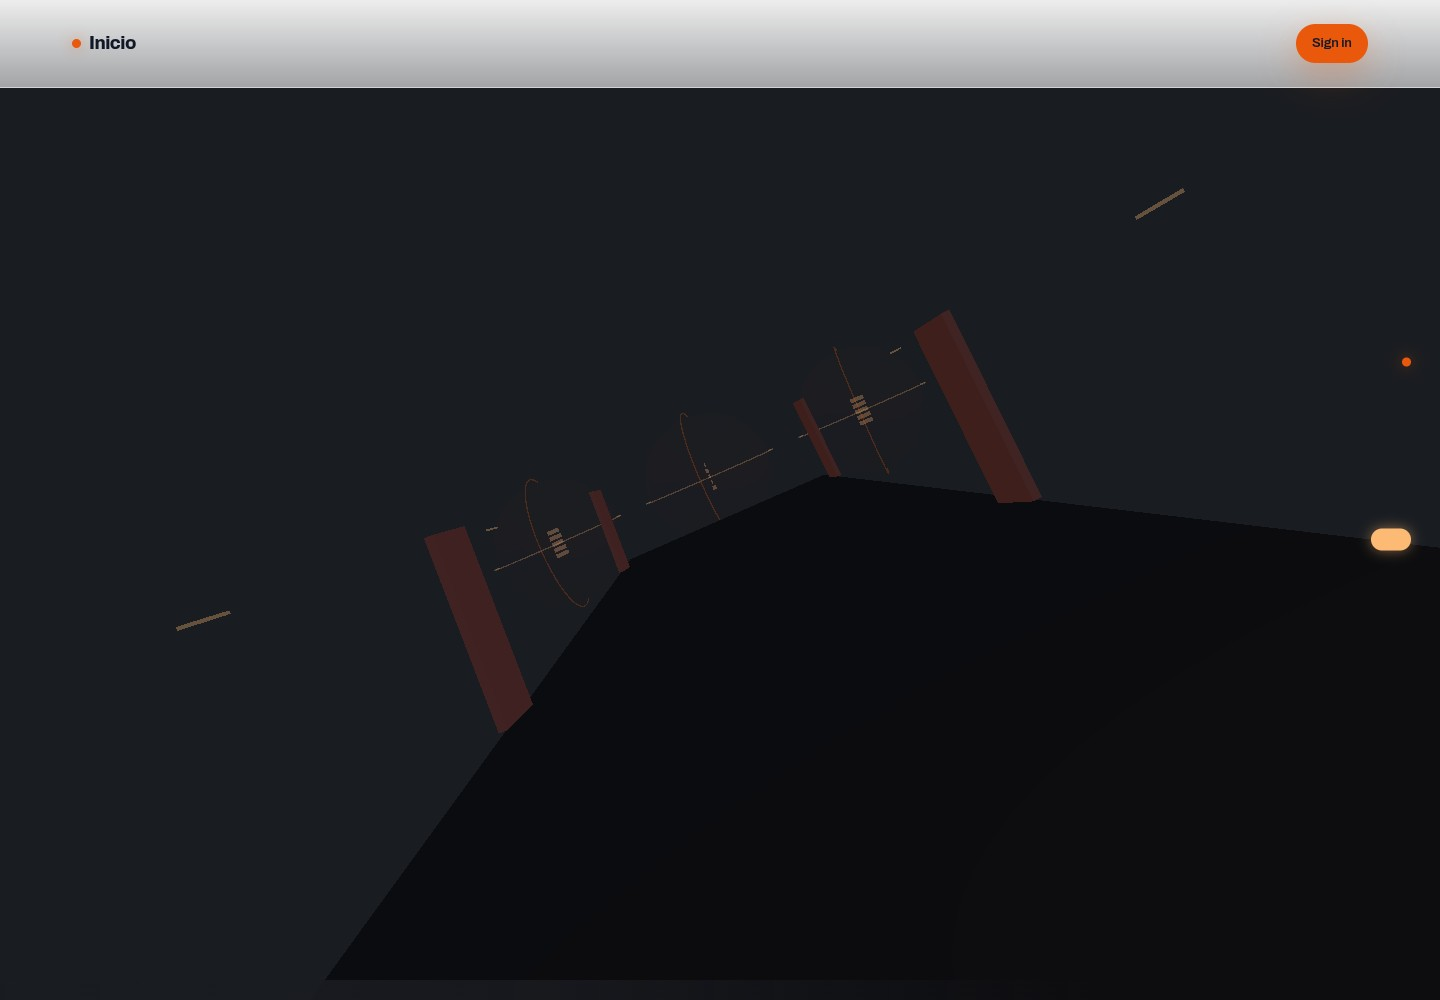
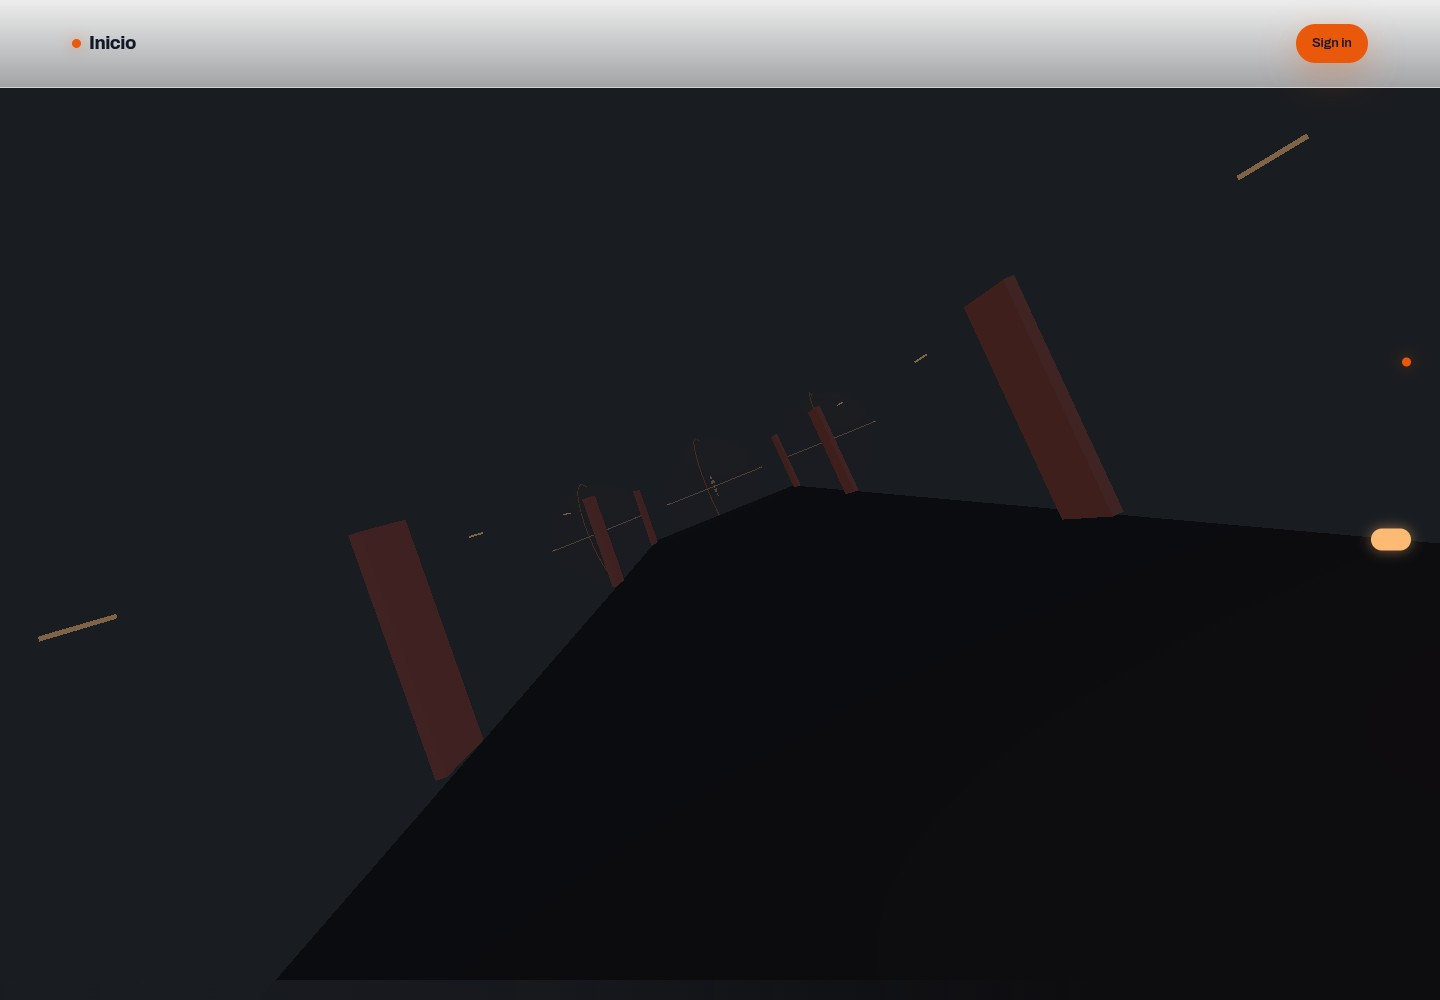
Say that the captures are now of the deployment, and that its counter is not yet durable
The four commits before this one reached https://inicio.unifies.codes within half a minute of
the push, so the capture run was repeated against production rather than against a local
server: the same nine checks passed in the same order (the figures read from the API in that
request, the WebGL scene drawing and reporting six beats, the camera at the beat each
photograph is named for, the fly-through panel holding zero characters, the call to action
reaching /login on both viewports, nothing 4xx'd but the signed-out `401`), and the palette
of each image was decoded afterwards as before. The README now says the images are
photographs of the live site, which is what they are.

Verifying also turned up the one thing that is not finished, and leaving it in a footnote
would have been the kind of quiet that reads as done: `pnpm drift` reports the deployment at
10 migrations while this checkout is at 11. The build that reads `0011` is live — `/health`
answers its version and twelve rapid public reads answer `200` with `x-ratelimit-remaining`
unmoved — and the table is not there, so the durable counter fails **open** on the
deployment, exactly as designed for an unreachable store, and the ceiling is still the
per-process one this release replaced. That is the README's own "migrate first" rule run the
wrong way round, so it is written down in the CHANGELOG, on the roadmap row and at the end
of D47, each naming the command that closes it and the check that confirms it.

diff --git a/docs/ROADMAP.md b/docs/ROADMAP.md
@@ -58,7 +58,7 @@ Legend: **built+verified** · **built, partially verified** · **not built**
 | The API contract | built+verified | `specs/openapi.yaml` enumerates every mounted path — `/health`, the Phase-1 `/auth` block marked `deprecated`, and the whole `/api/v1` surface — with the credentials, the scope table and the stable error vocabulary. It replaced a revision that documented a questionnaire/`admin` surface no longer mounted anywhere. It is now **held to the code rather than to a memory of the code**: `apps/api/test/openapi.test.ts` parses the file, extracts the routes out of the source with the prefixes `app.ts`/`platform/index.ts` actually mount, and compares them both ways — a route added without its entry fails, and so does an entry kept after its route is gone (it caught two: the invitation routes were documented at `/api/v1/invite/...` when they are mounted at `/api/v1/auth/invite/...`). The same test pins the machine surface to the eleven operations a key may call, requires the scope each needs to be *named in its description*, asserts the unauthenticated surface as an explicit list rather than a count, and checks that no scope-shaped token appears that `API_SCOPES` does not define |
 | Bundle budgets | built+verified | `scripts/check-budgets.mjs` (`pnpm budgets`) measures the gzipped build: 80 kB of JavaScript and 7 kB of CSS on the critical path, 8 kB and 6 kB for the landing chunk, 150 kB for any chunk, and it *asserts the split* rather than trusting it — a critical chunk containing `WebGLRenderer` or `createInstrument` fails the build, which is what a static import of the scene would do. This build: 78.7 kB JS and 5.1 kB CSS critical, 6.6 kB landing (3.6 kB of it stylesheet), 7.3 kB studio, 122.2 kB renderer, 1.4 kB cursor trail |
 | Contrast and accessibility rules | built+verified | `contrast.test.ts` measures 23 pairs taken from the stylesheets themselves (aliases followed across the file, translucent colours composited over the ground they sit on): text at 4.5:1, control boundaries and the live dot at 3:1, in both themes and the landing palette. `a11y.test.tsx` mounts the landing page and the terms gate in jsdom and runs `axe-core`, with `color-contrast` disabled for a stated reason and covered by the measurement instead. Two real defects came out of it: interactive boundaries at ~1.6:1 (`--line` at 13 %, now `--line-control` at 50 %) and the light theme's live colour under 4.5:1. **Not verified:** a full WCAG 2.2 AA audit; this is a rule engine and a palette measurement, not a person with a screen reader |
-| Durable rate limiting, across instances and restarts | built+verified | `apps/api/src/lib/rate-limit.ts` with migration `0011`: the counter is a row, so a ceiling is not reset by a recycled serverless process or by a second instance. `rate-limit.test.ts` builds **two** app instances over one database and shows the second refusing what the first had already filled — with the freshly built instance having counted nothing itself, which is exactly what the store this replaced could not do — plus ten concurrent increments landing as ten, an expired window taken over in place rather than accumulating a row per window, a salted hash on disk and never the address or the token, the sweep deleting expired windows and leaving live ones, the public collection routes keyed per **link** while nothing outside that plugin touches the namespace, and a store that cannot reach PostgreSQL failing **open** with one line in the log (the plugin swallows a store error silently, so the store is the only visibility there is). **Not measured:** two instances in *separate* processes under load; durability is proven across two Fastify instances over one database, which is the property in question |
+| Durable rate limiting, across instances and restarts | built+verified | `apps/api/src/lib/rate-limit.ts` with migration `0011`: the counter is a row, so a ceiling is not reset by a recycled serverless process or by a second instance. `rate-limit.test.ts` builds **two** app instances over one database and shows the second refusing what the first had already filled — with the freshly built instance having counted nothing itself, which is exactly what the store this replaced could not do — plus ten concurrent increments landing as ten, an expired window taken over in place rather than accumulating a row per window, a salted hash on disk and never the address or the token, the sweep deleting expired windows and leaving live ones, the public collection routes keyed per **link** while nothing outside that plugin touches the namespace, and a store that cannot reach PostgreSQL failing **open** with one line in the log (the plugin swallows a store error silently, so the store is the only visibility there is). **Not measured:** two instances in *separate* processes under load; durability is proven across two Fastify instances over one database, which is the property in question. **Not yet true on the deployment:** this build is live and `0011` is not applied there, so the counter fails open (the designed behaviour) and the ceiling is still per process; `pnpm drift` says so, and `pnpm db:migrate` over the deployment's owner connection closes it |
 | Installable PWA | built+verified | `apps/web/public/{sw.js,manifest.webmanifest,icon-*.png}`; the worker precaches the shell and its hashed assets and **never** intercepts `/api`, `/auth` or `/health`, so no cached body can be served as live data; `service-worker.test.ts` executes the worker in a VM and asserts both; registration is production-only so it cannot shadow hot module replacement |
 
 ## 2. Not built (and deliberately not faked)

diff --git a/README.md b/README.md
@@ -390,7 +390,7 @@ standing, rather than showing the definition they used to have.
 
 ## 📸 Screenshots
 
-<div align="center"><sub><b>Captured, not drawn.</b> The images in this first table are photographs of the running product — headless Chromium at 1440×1000 (desktop) and 390×844 (phone), driven against a server built from this checkout, with nothing staged: the figures on the page are the ones <code>GET /api/v1/public/summary</code> returned in that request, and the scene is the real WebGL flight, drawn by software GL on a machine with no GPU. Each capture records the address it was taken from in <code>docs/assets/screenshots/capture-report.json</code>, so which build a picture came from is a fact in the repository rather than a claim about it. The further screens are vector renderings of the same interface, committed as SVG so they stay sharp at any zoom and cost a few kilobytes; they exist because the documentation pipeline has no signed-in session to photograph, not because the screens are imagined. Every one of them is drawn in the product's own palette, and that is asserted rather than assumed: `apps/web/test/brand-assets.test.ts` reads the drawings and fails on a colour from the palette this replaced — which is how nine of them were found still painted in the previous navy and blue, long after the stylesheets had changed.<br /><br />They are taken by <code>scripts/screenshots.mjs</code>, which asserts the things a picture cannot show — the page read its figures from the API in that request, the WebGL scene drew a frame and reported six beats, the camera was at the beat each photograph is named for, the fly-through carries no text at all, the call to action reaches <code>/login</code> on desktop and on a phone, and nothing 4xx'd except the signed-out <code>401</code> — and then writes both the images and the report. Two of those checks exist because the pictures were nearly wrong in ways nobody could have seen: the GL flag combination this Chromium accepts is a narrower one, and the flags it had would have photographed the fallback without a scene in it; and a canvas is mounted on every route now, so the check that was meant to notice a scene that failed to draw was reading the cursor trail's 2D context instead of the scene. That same class of check is what found the missing tab icon: a browser's own request for <code>/favicon.ico</code> never appears as a page response.</sub></div>
+<div align="center"><sub><b>Captured, not drawn.</b> The images in this first table are photographs of the running product — headless Chromium at 1440×1000 (desktop) and 390×844 (phone) against <a href="https://inicio.unifies.codes">the live deployment</a>, with nothing staged: the figures on the page are the ones <code>GET /api/v1/public/summary</code> returned in that request, and the scene is the real WebGL flight, drawn by software GL on a machine with no GPU. Each capture records the address it was taken from in <code>docs/assets/screenshots/capture-report.json</code>, so which build a picture came from is a fact in the repository rather than a claim about it. The further screens are vector renderings of the same interface, committed as SVG so they stay sharp at any zoom and cost a few kilobytes; they exist because the documentation pipeline has no signed-in session to photograph, not because the screens are imagined. Every one of them is drawn in the product's own palette, and that is asserted rather than assumed: `apps/web/test/brand-assets.test.ts` reads the drawings and fails on a colour from the palette this replaced — which is how nine of them were found still painted in the previous navy and blue, long after the stylesheets had changed.<br /><br />They are taken by <code>scripts/screenshots.mjs</code>, which asserts the things a picture cannot show — the page read its figures from the API in that request, the WebGL scene drew a frame and reported six beats, the camera was at the beat each photograph is named for, the fly-through carries no text at all, the call to action reaches <code>/login</code> on desktop and on a phone, and nothing 4xx'd except the signed-out <code>401</code> — and then writes both the images and the report. Two of those checks exist because the pictures were nearly wrong in ways nobody could have seen: the GL flag combination this Chromium accepts is a narrower one, and the flags it had would have photographed the fallback without a scene in it; and a canvas is mounted on every route now, so the check that was meant to notice a scene that failed to draw was reading the cursor trail's 2D context instead of the scene. That same class of check is what found the missing tab icon: a browser's own request for <code>/favicon.ico</code> never appears as a page response.</sub></div>
 
 <br />
 

diff --git a/CHANGELOG.md b/CHANGELOG.md
@@ -358,10 +358,19 @@ asserts both the status code and that `reason` is a sentence.
   assumed were wrong and are now checked in the script: the no-WebGL path is reached on this machine's
   Chromium unless the flags are `--use-gl=angle --use-angle=swiftshader --disable-gpu-sandbox`, and
   `querySelector('canvas')` finds the **cursor trail's** 2D context now that a trail is mounted on every
-  route, so a scene that was drawing perfectly reported as not drawing until the canvas was named. The
-  captures are of **this build** and not of the deployment: production still serves the page the flight
-  replaces, and `docs/assets/screenshots/capture-report.json` records the address each image came from so
-  that difference is visible in the repository rather than implied by a caption.
+  route, so a scene that was drawing perfectly reported as not drawing until the canvas was named. Once this
+  build reached the deployment the whole run was repeated **against production** and passed every check the
+  same way, so the captures in the README are photographs of the live site rather than of a local server, and
+  `docs/assets/screenshots/capture-report.json` records the address they came from.
+- **The limiter's migration is still outstanding on the deployment, and that is a state rather than a
+  footnote.** This build is live at `https://inicio.unifies.codes` (`/health` reports its version, the flight
+  draws, twelve rapid public reads answer `200` with `x-ratelimit-remaining: 120` unchanged) and `pnpm drift`
+  reports the deployment at 10 migrations while this checkout is at 11: `0011_rate_limit_counter.sql` has not
+  been applied there, so the durable counter this release added is failing **open** exactly as designed and
+  the ceiling is still the per-process one it replaced. It is the ordering the README states as the one rule
+  that matters, run the other way round, and it closes with
+  `MIGRATION_DATABASE_URL='postgres://…' pnpm --filter @inicio/api db:migrate` against the deployment's own
+  owner connection followed by `pnpm drift`, which is the check that says so.
 - **Component tests for the web surfaces.** The landing page runs in jsdom (its figures come from the
   API, it stays complete when the scene returns nothing, it shows no figure rather than an old one
   when the API does not answer, and its call to action reaches `/login`), and so does the realtime

diff --git a/DECISIONS.md b/DECISIONS.md
@@ -1713,10 +1713,13 @@ and the token are not. Only the collection routes touch the `link` namespace. A 
 that fails lets the requests through and says so in one log line.
 
 **What this does not fix.** CAPTCHA and disposable-domain screening on the public entry points (Phase 0 item 8),
-per-API-key ceilings (FR-8.2), and bot detection on anonymous forms. And the migration is not applied in
-production: the deployment is serving the build that predates `0011`, so once this build is deployed the limiter
-fails open (the designed behaviour, with a log line) until `pnpm db:migrate` runs there, and `pnpm drift`
-reports the checkout one migration ahead in the meantime.
+per-API-key ceilings (FR-8.2), and bot detection on anonymous forms. And the migration is still not applied in
+production, which is the ordering the README calls the one rule that matters, run the wrong way round: the build
+that reads `0011` is deployed (`/health` reports its version and twelve rapid public reads answer `200` with
+`x-ratelimit-remaining` unmoved), the table is not there, and `pnpm drift` reports the deployment at 10
+migrations against this checkout's 11. The limiter therefore fails **open** there, which is the designed
+behaviour for an unreachable counter and is no worse than the per-process ceiling it replaced, and it closes
+with `pnpm db:migrate` over the deployment's own owner connection followed by `pnpm drift`.
 
 ## D48 — The marketing page is one flight through the product, and its choreography is arithmetic
 
